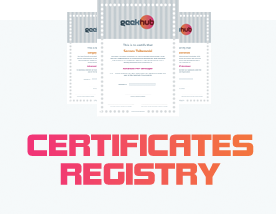
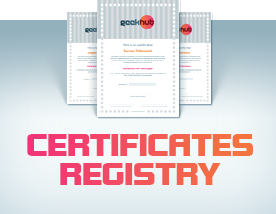
fix sponsors links, background

diff --git a/styles/styles.css b/styles/styles.css
@@ -6,7 +6,7 @@ body                            {
     padding:0;
     margin:0;
     font: 12px Arial, Helvetica, sans-serif;
-    background: url("../images/background.png") repeat-x #fff;
+    background: #fff;
     color: #4B7589;
 }
 div,p,a,span,em,strong,img,h1,h2,h3,h4,h5,h6,ul,ol,li,dl,dt,dd,table,td,tr,form,fieldset,label,select,checkbox,input,textarea {
@@ -44,16 +44,18 @@ a:hover                        { text-decoration:underline; }
 /*----------------------------------------------------------------------------------*/
 /*-------------------------------------WRAPPER--------------------------------------*/
 /*----------------------------------------------------------------------------------*/
-#wrapper {
+#wrapper, #header {
     width: 900px;
     margin: 0 auto;
+}
+#header-wrap {
+    background: url("../images/background.png") repeat-x bottom;
 }
 /*----------------------------------------------------------------------------------*/
 /*-------------------------------------HEADER---------------------------------------*/
 /*----------------------------------------------------------------------------------*/
 #header {
     overflow: hidden;
-    height: 449px;
     padding-top: 1px;
     background: url("../images/circles-background.png") no-repeat center 145px;
 }
@@ -69,15 +71,14 @@ h2.ad {
     border-top: 1px solid #246987;
     margin-top: 35px;
     padding-top: 70px;
-
     font: 53px "Trebuchet MS", Helvetica, sans-serif;
     color: #246987;
 }
 #header a.reg {
     display: block;
-    height: 78px;
+    height: 58px;
     width: 307px;
-    margin: 28px auto 0;
+    margin: 28px auto 40px;
     padding-top: 20px;
     background:url("../images/reg-background.png") no-repeat -16px -2px;
     text-align: center;
@@ -196,71 +197,7 @@ h4 {
 .courses li.last-child {
     clear: right;
 }
-.fb-like-box {
-    float: left;
-    padding-top: 20px;
-}
-a.certificates {
-    display: block;
-    overflow: hidden;
-    height: 214px;
-    width: 276px;
-    margin: 0 auto;
-    background: url("../images/certificates.png") no-repeat top left;
-    text-indent: -9999px;
-}
-.sponsors {
-    float: right;
-    height: 214px;
-    width: 276px;
-    text-align: center;
-    padding-bottom: 60px;
-}
-.sponsors h3 {
-    margin: 11px 0 0;
-    font-size: 16px;
-    letter-spacing: 8px;
-}
-.sponsors li {
-    overflow: hidden;
-    display: inline-block;
-    margin: 20px 10px 0;
-    background: url("../images/sponsors.png") top left no-repeat;
-}
-.sponsors li:hover {
-    background: url("../images/sponsors-hover.png") top left no-repeat;
-}
-.sponsors li.evangelia {
-    width: 69px;
-    height: 54px;
-    background-position: -10px -10px;
-}
-.sponsors li.o {
-    width: 59px;
-    height: 47px;
-    background-position: -10px -74px;
-}
-.sponsors li.y {
-    width: 59px;
-    height: 44px;
-    background-position: -10px -131px;
-}
-.sponsors li.s {
-    width: 44px;
-    height: 44px;
-    background-position: -10px -185px;
-}
-.sponsors li.moc {
-    width: 72px;
-    height: 39px;
-    background-position: -10px -239px;
-}
-.sponsors li a {
-    display: block;
-    width: 100%;
-    height: 100%;
-    text-indent: -9999px;
-}
+
 /*----------------------------------------------------------------------------------*/
 /*-------------------------------------SIDEBAR--------------------------------------*/
 /*----------------------------------------------------------------------------------*/
@@ -270,23 +207,65 @@ a.certificates {
 /*----------------------------------------------------------------------------------*/
 #footer {
     clear: both;
-    min-height: 60px;
-    padding-top: 15px;
-    border-top: 1px solid #437183;
+    min-height: 370px;
 }
-#footer a {
+.vigets {
+    display: inline-block;
+    padding: 20px 0 60px;
+    margin-bottom: 15px;
+    border-bottom: 1px solid #437183;
+}
+.vigets>li {
+    display: inline-block;
+    height: 214px;
+    width: 276px;
+    margin: 0 10px;
+}
+.fb-like-box {
+    padding-top: 20px;
+}
+a.certificates {
+    display: block;
+    overflow: hidden;
+    height: 100%;
+    width: 100%;
+}
+.sponsors {
+    text-align: center;
+}
+.sponsors h3 {
+    font-size: 16px;
+    letter-spacing: 8px;
+}
+.sponsors li {
+    overflow: hidden;
+    display: inline-block;
+    margin: 10px 0;
+    width: 75px;
+    height: 55px;
+}
+.sponsors li a {
+    display: block;
+    width: 100%;
+    height: 100%;
+    text-indent: -75px;
+}
+.sponsors li:hover a {
+    text-indent: 0;
+}
+#footer .nav a {
     font: bold 11px Arial, sans-serif;
     text-transform: uppercase;
     color: #396375;
 }
-#footer li {
+#footer .nav li {
     float: left;
     margin-left: 21px;
 }
-#footer li:first-child {
+#footer .nav li:first-child {
     margin: 0;
 }
-#footer li.active a, #footer li a:hover {
+#footer .nav li.active a, #footer .nav li a:hover {
     color: #E11D5C;
 }
 #footer span {

diff --git a/index.html b/index.html
@@ -15,7 +15,7 @@
     js.src = "//connect.facebook.net/ru_RU/all.js#xfbml=1";
     fjs.parentNode.insertBefore(js, fjs);
 }(document, 'script', 'facebook-jssdk'));</script>
-<div id="wrapper">
+<div id="header-wrap">
     <div id="header">
         <h1><a href="#"><img src="images/geekhub-label.png" alt="GeekHub"/>GeekHub</a></h1>
         <ul id="nav">
@@ -34,6 +34,8 @@
         <h2 class="ad">Реєстрація на другий сезон відкрита!</h2>
         <a class="reg" href="#">Зареєструватися</a>
     </div>
+</div>
+<div id="wrapper">
     <div id="content">
         <p class="geekhub">
             <b>GeekHub</b> — це проект, що надає можливість отримати практичні знання та навички в
@@ -116,21 +118,27 @@
                 </p>
             </li>
         </ul>
-        <div class="fb-like-box" data-href="http://www.facebook.com/FacebookDevelopers" data-width="276px" data-height="197px" data-colorscheme="light" data-show-faces="true" data-header="false" data-stream="false" data-show-border="true"></div>
-        <div class="sponsors">
-            <h3>Наши спонсоры</h3>
-            <ul>
-                <li class="evangelia"><a href="#">Дім Євангелія</a></li>
-                <li class="moc"><a href="#">Master of code</a></li>
-                <li class="s"><a href="#">I doesn't understand what it means</a></li>
-                <li class="y"><a href="#">I doesn't understand what it means</a></li>
-                <li class="o"><a href="#">I doesn't understand what it means</a></li>
-            </ul>
-        </div>
-        <a class="certificates" href="#">Certificates registry</a>
     </div>
     <div id="footer">
-        <ul>
+        <ul class="vigets">
+            <li>
+                <div class="fb-like-box" data-href="http://www.facebook.com/FacebookDevelopers" data-width="276px" data-height="197px" data-colorscheme="light" data-show-faces="true" data-header="false" data-stream="false" data-show-border="true"></div>
+            </li>
+            <li>
+                <a class="certificates" href="#"><img src="images/certificates.png" alt="Certificates registry"/>Certificates registry</a>
+            </li>
+            <li class="sponsors">
+                <h3>Наши спонсоры</h3>
+                <ul>
+                    <li><a href="#"><img src="images/evangelia.png" alt="Evangelia"/>Дім Євангелія</a></li>
+                    <li><a href="#"><img src="images/moc.png" alt="Master of code"/>Master of code</a></li>
+                    <li><a href="#"><img src="images/s.png" alt="s"/>I don't understand what it means</a></li>
+                    <li><a href="#"><img src="images/y.png" alt="y"/>I don't understand what it means</a></li>
+                    <li><a href="#"><img src="images/o.png" alt="o"/>I don't understand what it means</a></li>
+                </ul>
+            </li>
+        </ul>
+        <ul class="nav">
             <li class="active"><a href="#">Главная</a></li>
             <li><a href="#">О GeekHub</a></li>
             <li><a href="#">Команда</a></li>
